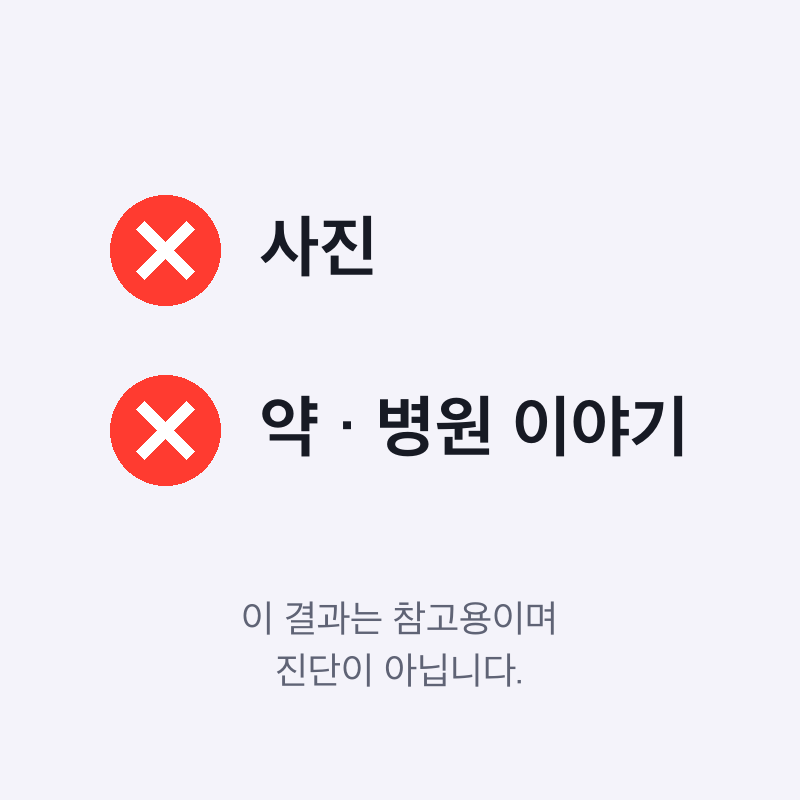
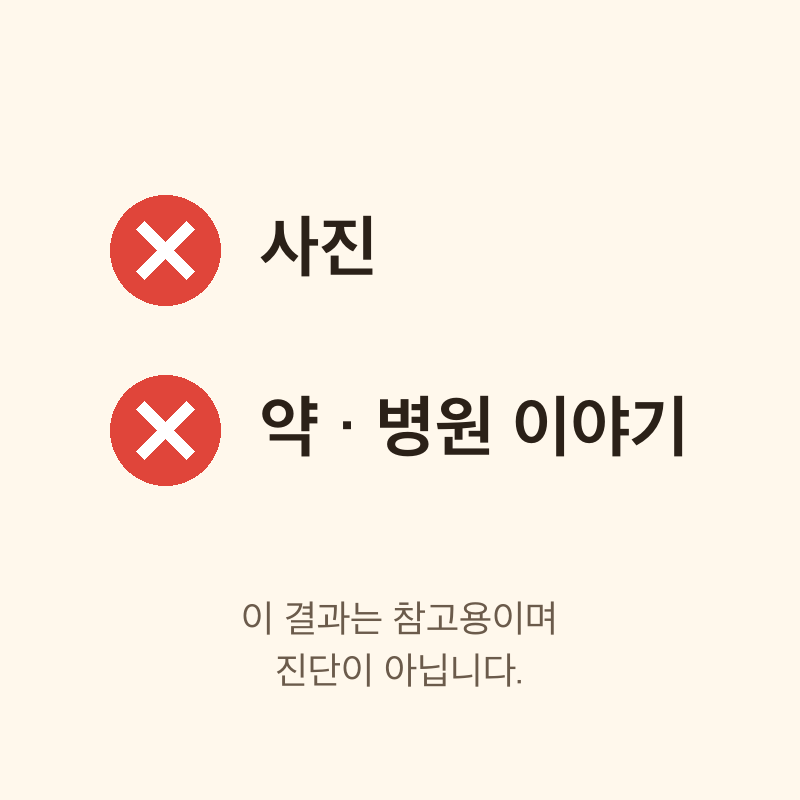
feat: 어르신용 색 테마로 공유 화면·안내 페이지·사용법 그림을 통일한다
노랑은 면에만, 글씨는 진한 갈색, 바탕은 크림. 색 값은 api/theme.py에 두고
공유 화면과 채널 안내 페이지가 함께 쓴다. 사용법 그림 카드 0·5를 같은 색으로
다시 그리고 사진 버전을 v4로 올렸다.

diff --git a/src/healthcheck/api/share.py b/src/healthcheck/api/share.py
@@ -29,6 +29,7 @@ from urllib.parse import parse_qs, urlencode
 from fastapi import APIRouter, Request
 from fastapi.responses import HTMLResponse, JSONResponse, RedirectResponse, Response
 
+from healthcheck.api import theme
 from healthcheck.storage.events import new_event
 
 logger = logging.getLogger(__name__)
@@ -136,13 +137,12 @@ def _is_web_url(value: str | None) -> bool:
 # 전송 알림을 받은 시각. 공유 페이지가 이 값을 물어 보고, 보낸 것이 확인되면 스스로 닫는다.
 _SENT_AT: dict[str, float] = {}
 
-_FONT = '-apple-system, BlinkMacSystemFont, "Apple SD Gothic Neo", "Noto Sans KR", "Malgun Gothic", sans-serif'
 _STYLE = """
-:root {{ --bg:#F4F2EE; --card:#FFFFFF; --ink:#191919; --muted:#6B6B6B; --line:#E6E3DD; --kakao:#FEE500; }}
+:root {{ --bg:{bg}; --card:#FFFFFF; --ink:{ink}; --muted:{muted}; --line:{line}; --kakao:{yellow}; }}
 * {{ box-sizing:border-box; }}
 html, body {{ margin:0; background:var(--bg); color:var(--ink); font-family:{font}; -webkit-text-size-adjust:100%; }}
 main {{ max-width:480px; margin:0 auto; padding:28px 20px 32px; }}
-.brand {{ font-size:17px; font-weight:700; color:var(--muted); letter-spacing:-0.2px; }}
+.brand {{ display:inline-block; font-size:17px; font-weight:800; background:var(--kakao); color:var(--ink); padding:5px 14px; border-radius:999px; }}
 h1 {{ font-size:34px; line-height:1.3; margin:10px 0 6px; letter-spacing:-0.8px; }}
 .lead {{ font-size:19px; line-height:1.55; color:var(--muted); margin:0 0 22px; }}
 .preview {{ background:var(--card); border:1px solid var(--line); border-radius:20px; overflow:hidden; }}
@@ -152,7 +152,7 @@ h1 {{ font-size:34px; line-height:1.3; margin:10px 0 6px; letter-spacing:-0.8px;
 .claim {{ font-size:21px; line-height:1.45; font-weight:700; margin:0; word-break:keep-all; }}
 .chip + .claim {{ margin-top:10px; }}
 .primary {{ display:flex; align-items:center; justify-content:center; gap:10px; width:100%; min-height:64px; margin-top:22px;
-  border:0; border-radius:16px; background:var(--kakao); color:#191919; font-size:22px; font-weight:800; font-family:inherit; }}
+  border:0; border-radius:16px; background:var(--kakao); color:var(--ink); font-size:22px; font-weight:800; font-family:inherit; }}
 .secondary {{ width:100%; min-height:56px; margin-top:12px; border:1px solid var(--line); border-radius:16px;
   background:transparent; color:var(--ink); font-size:19px; font-weight:600; font-family:inherit; }}
 .status {{ text-align:center; font-size:18px; color:var(--muted); margin-top:16px; min-height:26px; }}
@@ -223,7 +223,7 @@ def _preview_html(card: dict | None) -> str:
     image = card.get("imageUrl")
     # 신호등 이미지에 판정이 이미 크게 적혀 있으므로 이미지가 없을 때만 판정 표시를 따로 단다.
     chip = (
-        f'<span class="chip" style="background:{_CHIP_COLORS.get(card.get("label"), "#F4F2EE")}">{label}</span>'
+        f'<span class="chip" style="background:{_CHIP_COLORS.get(card.get("label"), theme.BG)}">{label}</span>'
         if label and not image
         else ""
     )
@@ -301,7 +301,7 @@ async def share_page(token: str, request: Request) -> Response:
     await _record(request, "share", ref=token, user_key=(card or {}).get("owner"), outcome=_label_code(card))
     message = _share_message(card, base_url, token, secret=getattr(request.app.state, "kakao_admin_key", None))
     page = _SHARE_HTML.format(
-        style=_STYLE.format(font=_FONT),
+        style=_STYLE.format(font=theme.FONT, bg=theme.BG, ink=theme.INK, muted=theme.MUTED, line=theme.LINE, yellow=theme.YELLOW),
         sdk=SDK_URL,
         integrity=SDK_INTEGRITY,
         preview=_preview_html(card),
@@ -320,13 +320,10 @@ async def share_sent(token: str, after: int = 0) -> Response:
     return JSONResponse({"sent": bool(sent_at and sent_at * 1000 >= after)}, headers={"Cache-Control": "no-store"})
 
 
-_FALLBACK_HTML = """<!doctype html><html lang="ko"><head><meta charset="utf-8">
-<meta name="viewport" content="width=device-width, initial-scale=1"><title>AI 건강지킴이</title></head>
-<body style="font-family:sans-serif;padding:32px;font-size:22px;line-height:1.6">
-<p><b>AI 건강지킴이</b></p>
-<p>받은 건강정보가 믿을 만한지 확인해 드려요.</p>
-<p>카카오톡에서 <b>AI 건강지킴이</b> 채널을 검색해 추가하고, 링크나 문장을 보내 주세요.</p>
-</body></html>"""
+_FALLBACK_HTML = theme.simple_page(
+    "받은 건강정보, 믿어도 될까요?",
+    ["카카오톡에서 AI 건강지킴이 채널을 검색해 추가하고, 받은 링크나 문장을 보내 주세요.", "신호등으로 알려 드려요."],
+)
 
 
 @router.post(CALLBACK_PATH, include_in_schema=False)

diff --git a/scripts/make_guide_images.py b/scripts/make_guide_images.py
@@ -6,6 +6,9 @@
 캡처 원본은 저장소에 두지 않는다. 사진을 바꾸면 step6_response.GUIDE_IMAGE_VERSION을 올린다.
 
     python3 scripts/make_guide_images.py <캡처 폴더>   # 2.webp(유튜브 공유), 3.webp(붙여넣기·결과), 4.webp(카톡 말풍선)
+    python3 scripts/make_guide_images.py --drawn-only  # 캡처 없이 그림 카드(0·5)만 다시 그린다
+
+그림 카드 색은 어르신용 색 테마(api/theme.py)를 따른다.
 
 Pillow가 필요하다(시스템 python3).
 """
@@ -19,7 +22,11 @@ from PIL import Image, ImageDraw, ImageFilter, ImageFont
 
 OUT = Path(__file__).resolve().parents[1] / "src" / "healthcheck" / "api" / "static" / "guide"
 SIZE = 800
-RED = (255, 59, 48)
+RED = (224, 69, 58)  # theme.SIGNAL WARNING
+GREEN = (46, 158, 91)  # theme.SIGNAL TRUSTWORTHY
+BG = (255, 248, 236)  # theme.BG
+INK = (43, 33, 24)  # theme.INK
+MUTED = (107, 91, 75)  # theme.MUTED
 FONT = "/System/Library/Fonts/AppleSDGothicNeo.ttc"
 
 
@@ -86,11 +93,16 @@ def make(src: Path) -> None:
     # 4. 결과 카드
     fit(chat.crop((110, 340, 775, 1100))).save(OUT / "4_result.png", optimize=True)
 
+    make_drawn()
+
+
+def make_drawn() -> None:
+    """캡처가 필요 없는 그림 카드."""
+    OUT.mkdir(parents=True, exist_ok=True)
     # 0. 이런 걸 확인해요 (그림)
-    bg = (244, 243, 250)
-    img = Image.new("RGB", (SIZE, SIZE), bg)
+    img = Image.new("RGB", (SIZE, SIZE), BG)
     draw = ImageDraw.Draw(img)
-    green = (31, 157, 85)
+    green = GREEN
     rows = [
         (True, "홍삼이 면역력에", "좋대요", 170),
         (True, "이 제품 먹고", "당뇨 나았대요", 370),
@@ -103,25 +115,27 @@ def make(src: Path) -> None:
         else:
             draw.line((78, y - 32, 136, y + 32), fill=color, width=13)
             draw.line((136, y - 32, 78, y + 32), fill=color, width=13)
-        draw.text((180, y - 34), line1, font=font(52), fill=(23, 26, 36), anchor="lm")
-        draw.text((180, y + 30), line2, font=font(52), fill=(23, 26, 36), anchor="lm")
+        draw.text((180, y - 34), line1, font=font(52), fill=INK, anchor="lm")
+        draw.text((180, y + 30), line2, font=font(52), fill=INK, anchor="lm")
     img.save(OUT / "0_what.png", optimize=True)
 
     # 5. 이건 못 봐요 (그림)
-    bg = (244, 243, 250)
-    img = Image.new("RGB", (SIZE, SIZE), bg)
+    img = Image.new("RGB", (SIZE, SIZE), BG)
     draw = ImageDraw.Draw(img)
     rows = [("사진", 250), ("약 · 병원 이야기", 430)]
     for text, y in rows:
         draw.ellipse((110, y - 55, 220, y + 55), fill=RED)
         draw.line((140, y - 25, 190, y + 25), fill="white", width=12)
         draw.line((190, y - 25, 140, y + 25), fill="white", width=12)
-        draw.text((260, y), text, font=font(68), fill=(23, 26, 36), anchor="lm")
-    draw.text((SIZE // 2, 620), "이 결과는 참고용이며", font=font(38, bold=False), fill=(95, 99, 117), anchor="mm")
-    draw.text((SIZE // 2, 672), "진단이 아닙니다.", font=font(38, bold=False), fill=(95, 99, 117), anchor="mm")
+        draw.text((260, y), text, font=font(68), fill=INK, anchor="lm")
+    draw.text((SIZE // 2, 620), "이 결과는 참고용이며", font=font(38, bold=False), fill=MUTED, anchor="mm")
+    draw.text((SIZE // 2, 672), "진단이 아닙니다.", font=font(38, bold=False), fill=MUTED, anchor="mm")
     img.save(OUT / "5_limits.png", optimize=True)
 
 
 if __name__ == "__main__":
-    make(Path(sys.argv[1]))
+    if sys.argv[1:] == ["--drawn-only"]:
+        make_drawn()
+    else:
+        make(Path(sys.argv[1]))
     print("만듦:", sorted(p.name for p in OUT.glob("*.png")))

diff --git a/src/healthcheck/api/theme.py b/src/healthcheck/api/theme.py
@@ -1,0 +1,32 @@
+"""어르신용 색 테마(2026-10-01 사용자 결정). 포스터·공유 화면·안내 페이지·교육 자료가 같은 색을 쓴다.
+
+노랑은 면(버튼·강조·번호 원)에만 쓰고 글씨로는 쓰지 않는다(흰 바탕 노란 글씨는 대비 1.3:1).
+글씨는 진한 갈색. 파랑·보라는 나이 든 눈에 어둡고 비슷하게 보여 핵심 정보에 쓰지 않는다.
+주황은 '조심하세요' 신호등과 겹치므로 신호등이 아닌 곳의 강조 글씨는 진한 주황(ACCENT_TEXT)을 쓴다.
+"""
+
+from __future__ import annotations
+
+import html
+
+YELLOW = "#FEE500"  # 포인트(면) — 진한 갈색 글씨와 대비 약 14:1
+BG = "#FFF8EC"  # 크림 바탕
+INK = "#2B2118"  # 글씨 — 크림 바탕과 대비 약 15:1
+MUTED = "#6B5B4B"  # 보조 글씨 — 대비 약 6:1, 큰 글씨에만
+LINE = "#EFE3CF"
+BAND = "#3A2A1E"  # 짙은 띠 — 노란 글씨와 대비 약 11:1
+ACCENT_TEXT = "#B45309"  # 강조 글씨 — 대비 약 4.8:1
+SIGNAL = {"TRUSTWORTHY": "#2E9E5B", "CAUTION": "#F59E0B", "WARNING": "#E0453A", "UNKNOWN": "#8E8A94"}
+FONT = '-apple-system, BlinkMacSystemFont, "Apple SD Gothic Neo", "Noto Sans KR", "Malgun Gothic", sans-serif'
+
+
+def simple_page(title: str, paragraphs: list[str]) -> str:
+    """안내만 담은 작은 페이지(채널 안내 등). 판정 결과가 아니므로 면책 문구를 붙이지 않는다."""
+    body = "".join(f"<p>{html.escape(p)}</p>" for p in paragraphs)
+    return f"""<!doctype html><html lang="ko"><head><meta charset="utf-8">
+<meta name="viewport" content="width=device-width, initial-scale=1"><title>{html.escape(title)}</title>
+<style>html,body{{margin:0;background:{BG};color:{INK};font-family:{FONT}}}
+main{{max-width:480px;margin:0 auto;padding:40px 24px;font-size:22px;line-height:1.6}}
+.brand{{display:inline-block;background:{YELLOW};border-radius:999px;padding:6px 18px;font-weight:800;font-size:20px}}
+h1{{font-size:32px;margin:18px 0 8px}} p{{color:{MUTED}}}</style></head>
+<body><main><span class="brand">AI 건강지킴이</span><h1>{html.escape(title)}</h1>{body}</main></body></html>"""

diff --git a/src/healthcheck/api/poster.py b/src/healthcheck/api/poster.py
@@ -14,6 +14,7 @@ import re
 from fastapi import APIRouter, Request
 from fastapi.responses import HTMLResponse, RedirectResponse, Response
 
+from healthcheck.api import theme
 from healthcheck.storage.events import new_event
 
 logger = logging.getLogger(__name__)
@@ -23,12 +24,10 @@ _TAG = re.compile(r"^[a-z0-9-]{1,40}$")
 
 router = APIRouter()
 
-_FALLBACK_HTML = """<!doctype html><html lang="ko"><head><meta charset="utf-8">
-<meta name="viewport" content="width=device-width, initial-scale=1"><title>AI 건강지킴이</title></head>
-<body style="font-family:sans-serif;padding:32px;font-size:22px;line-height:1.6">
-<p><b>AI 건강지킴이</b></p>
-<p>카카오톡에서 <b>AI 건강지킴이</b> 채널을 검색해 추가하고, 링크나 문장을 보내 주세요.</p>
-</body></html>"""
+_FALLBACK_HTML = theme.simple_page(
+    "받은 건강정보, 믿어도 될까요?",
+    ["카카오톡에서 AI 건강지킴이 채널을 검색해 추가하고, 받은 링크나 문장을 보내 주세요."],
+)
 
 
 def poster_link(base_url: str, tag: str) -> str:

diff --git a/src/healthcheck/pipeline/step6_response.py b/src/healthcheck/pipeline/step6_response.py
@@ -275,7 +275,7 @@ def load_guide(path: Path | str = GUIDE_PATH) -> dict:
 
 
 # 사용법 카드 사진. 사진을 바꾸면 버전을 올린다. 카카오가 같은 주소의 이미지를 오래 기억한다.
-GUIDE_IMAGE_VERSION = "v3"
+GUIDE_IMAGE_VERSION = "v4"
 
 
 def guide_image_names() -> tuple[str, ...]:
